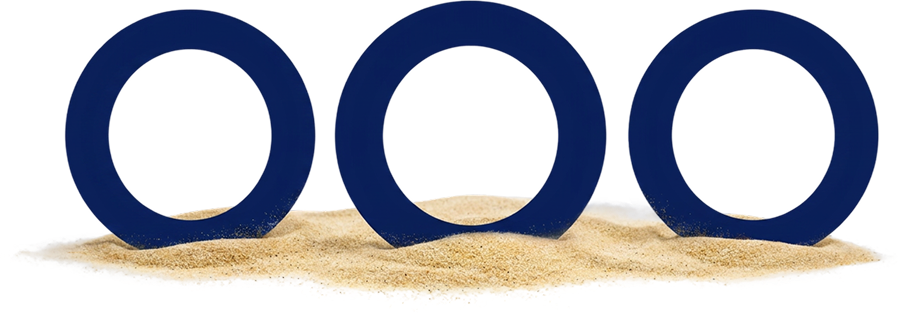
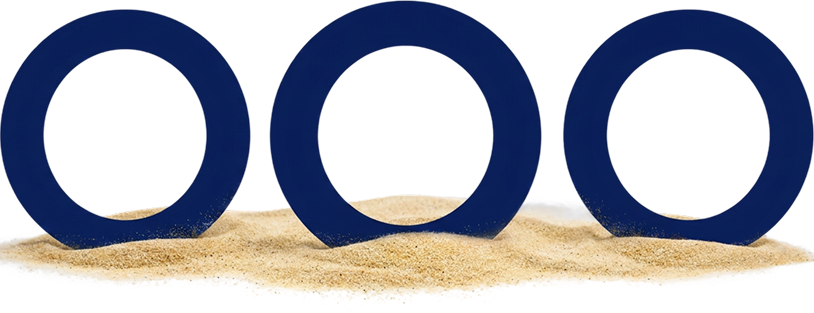
L'Oreal: re-center OOO PNG, more wave breathing room, sun emoji

diff --git a/components/loreal/intro-screen.tsx b/components/loreal/intro-screen.tsx
@@ -65,8 +65,8 @@ export function LorealIntroScreen({ onStart }: IntroScreenProps) {
           className="shrink-0 px-2"
           style={{
             width: "min(34vw, 18vh)",
-            marginTop: "clamp(1.5rem, 4.5vh, 3rem)",
-            marginBottom: "clamp(1.5rem, 4.5vh, 3rem)",
+            marginTop: "clamp(2.5rem, 7vh, 4.5rem)",
+            marginBottom: "clamp(2.5rem, 7vh, 4.5rem)",
           }}
         >
           <Image
@@ -105,8 +105,8 @@ export function LorealIntroScreen({ onStart }: IntroScreenProps) {
       <div
         className="shrink-0 flex justify-center"
         style={{
-          marginTop: "clamp(1rem, 3vh, 2rem)",
-          paddingBottom: "clamp(4rem, 12vh, 8rem)",
+          marginTop: "clamp(0.5rem, 1.5vh, 1rem)",
+          paddingBottom: "clamp(2rem, 5vh, 4rem)",
         }}
       >
         <GlassyButton onClick={onStart} delay={0.85}>

diff --git a/components/loreal/start-screen.tsx b/components/loreal/start-screen.tsx
@@ -76,9 +76,6 @@ export function LorealStartScreen({ onStart }: StartScreenProps) {
             width: "min(82vw, 44vh)",
             marginTop: "clamp(0.75rem, 2.5vh, 1.5rem)",
             marginBottom: "0.25rem",
-            // Source PNG's three O centers sit at avg x=470.7 in an 898-wide
-            // canvas (center=449), i.e. +2.4% right. Shift left to compensate.
-            transform: "translateX(-2.4%)",
           }}
         >
           {/* eslint-disable-next-line @next/next/no-img-element */}